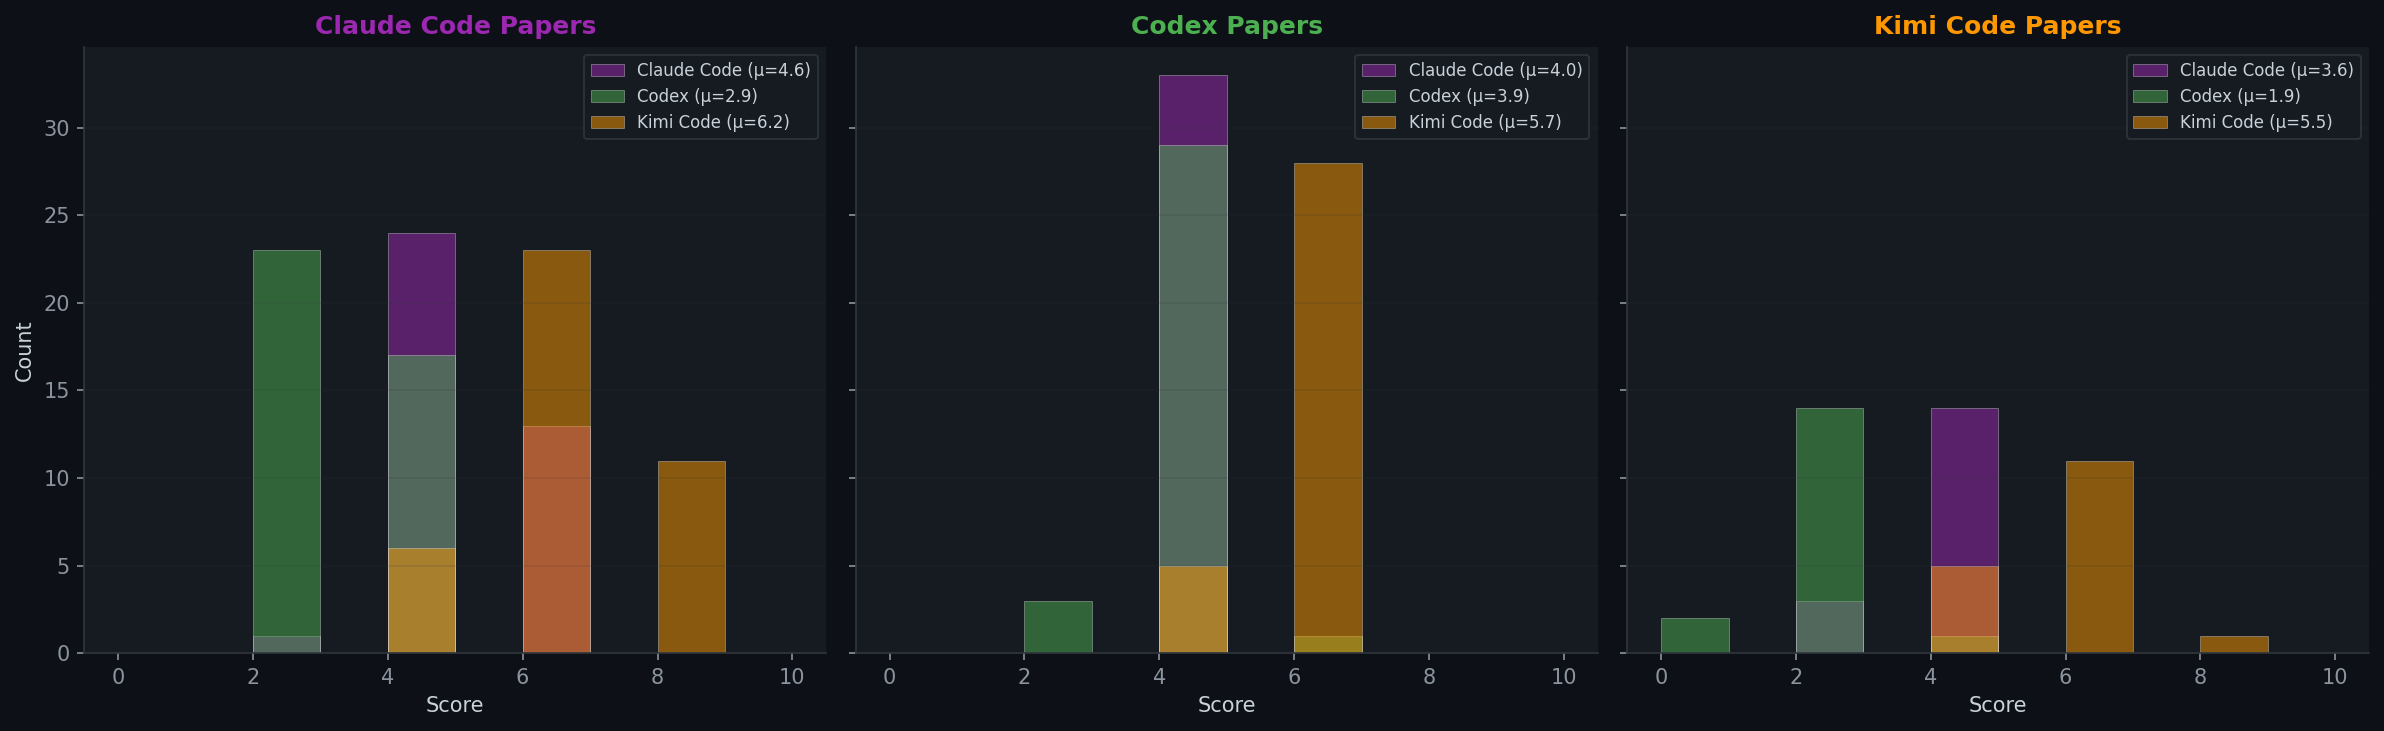
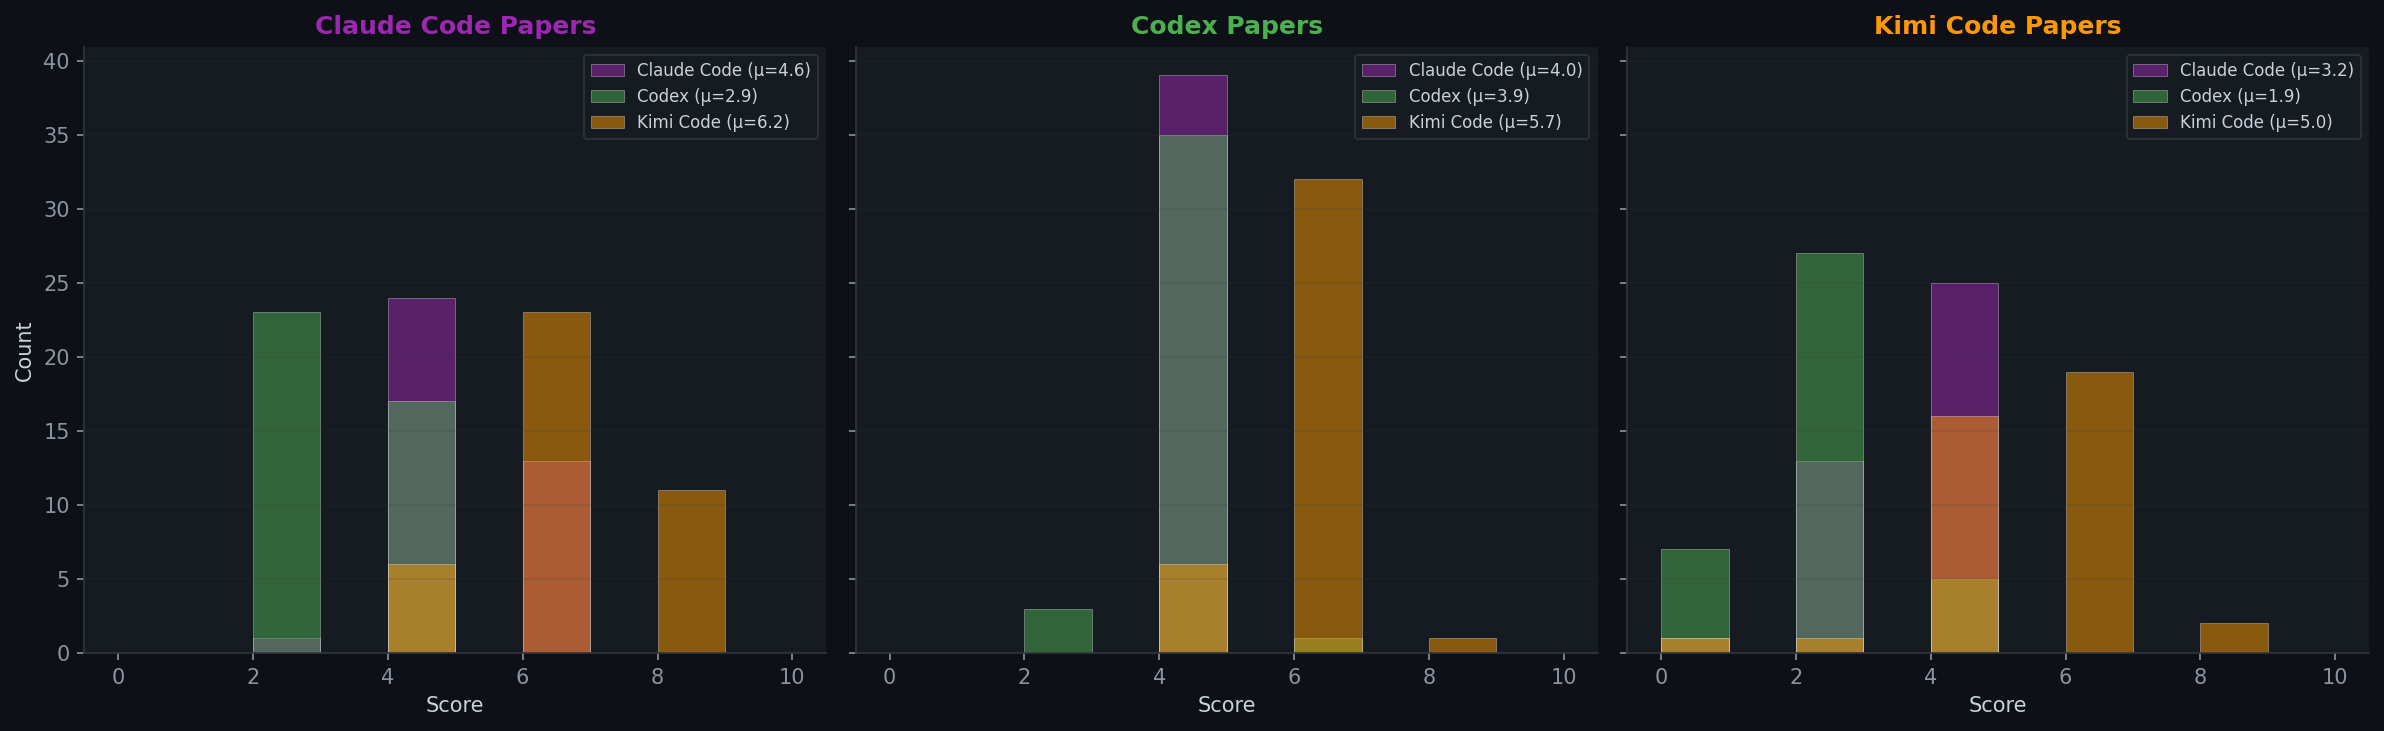
Fix reviewer bias: all 117 papers, figure matches table

diff --git a/blog/index.html b/blog/index.html
@@ -660,18 +660,18 @@ Claude Code cites the most references overall, yet 13% of its papers contain fak
 
   <div class="fig">
     <img src="assets/plots/comparison_3way_reviewer_scores.png" alt="Reviewer scores">
-    <div class="fig-caption">Figure 9: How each reviewer scores papers from each agent. Codex is the strictest reviewer (μ=1.9 for Kimi Code papers), Kimi Code is the most lenient (μ=6.2 for Claude Code papers).</div>
+    <div class="fig-caption">Figure 9: How each reviewer scores papers from each agent (all 117 papers). Codex is the strictest reviewer (μ=1.9 for Kimi papers), Kimi Code is the most lenient (μ=6.2 for Claude papers).</div>
   </div>
 
   <table>
     <tr><th>Reviewer ↓ / Agent →</th><th class="num">Claude Code</th><th class="num">Codex</th><th class="num">Kimi Code</th><th class="num">Avg Given</th></tr>
-    <tr><td><span class="badge badge-claude" style="font-size:0.8em">Claude Code</span></td><td class="num">4.6</td><td class="num">4.0</td><td class="num">3.6</td><td class="num">4.2</td></tr>
-    <tr><td><span class="badge badge-codex" style="font-size:0.8em">Codex</span></td><td class="num">2.9</td><td class="num">3.9</td><td class="num">1.9</td><td class="num">3.0</td></tr>
-    <tr><td><span class="badge badge-kimi" style="font-size:0.8em">Kimi Code</span></td><td class="num">6.2</td><td class="num">5.7</td><td class="num">5.5</td><td class="num">5.9</td></tr>
+    <tr><td><span class="badge badge-claude" style="font-size:0.8em">Claude Code</span></td><td class="num">4.6</td><td class="num">4.0</td><td class="num">3.2</td><td class="num">3.9</td></tr>
+    <tr><td><span class="badge badge-codex" style="font-size:0.8em">Codex</span></td><td class="num">2.9</td><td class="num">3.9</td><td class="num">1.9</td><td class="num">2.9</td></tr>
+    <tr><td><span class="badge badge-kimi" style="font-size:0.8em">Kimi Code</span></td><td class="num">6.2</td><td class="num">5.7</td><td class="num">5.0</td><td class="num">5.7</td></tr>
   </table>
 
   <div class="finding">
-    <strong>Finding 13:</strong> <strong>Reviewer severity differs dramatically across agents</strong>. Codex is the <strong>strictest reviewer</strong> (avg. 3.0), while Kimi Code is the <strong>most generous</strong> (avg. 5.9), scoring the same set of papers nearly 2× higher. <strong>Self-review is not uniformly inflated across agents</strong>: Claude Code and Codex both give their own papers their highest average scores (4.6 and 3.9), but Kimi Code does not — it scores Claude Code highest (6.2) and its own papers lower (5.0). Even so, <strong>Kimi Code's ratings remain substantially more lenient overall</strong>, including toward its own work, despite producing the weakest papers on average (PR 3.38). This points to a broader <strong>generation-verification gap</strong> and shows why <strong>multi-reviewer aggregation is necessary</strong>.
+    <strong>Finding 13:</strong> <strong>Reviewer severity differs dramatically across agents</strong>. Codex is the <strong>strictest reviewer</strong> (avg. 2.9), while Kimi Code is the <strong>most generous</strong> (avg. 5.7), scoring the same set of papers nearly 2× higher. <strong>Self-review is not uniformly inflated across agents</strong>: Claude Code and Codex both give their own papers their highest average scores (4.6 and 3.9), but Kimi Code does not — it scores Claude Code highest (6.2) and its own papers lower (5.0). Even so, <strong>Kimi Code's ratings remain substantially more lenient overall</strong>, including toward its own work, despite producing the weakest papers on average (PR 3.38). This points to a broader <strong>generation-verification gap</strong> and shows why <strong>multi-reviewer aggregation is necessary</strong>.
   </div>
   
 </section>
